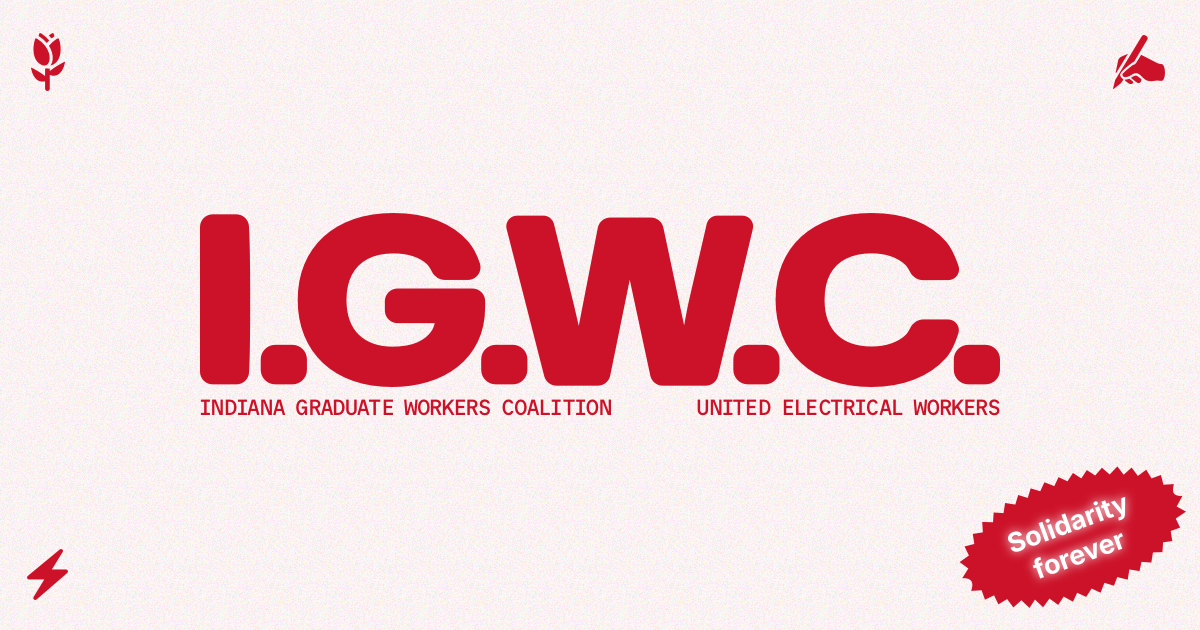
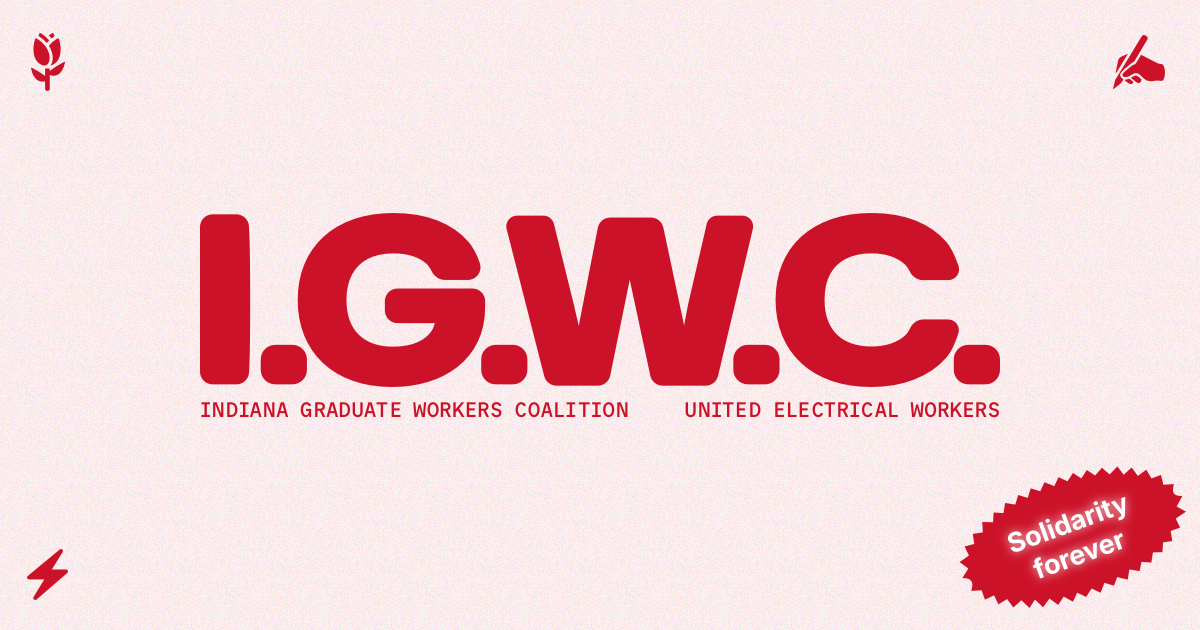
tone it down a bit i guess

Changed region(s): [[0.1542, 0.6333, 0.5242, 0.6635], [0.555, 0.6333, 0.8325, 0.6635]]

diff --git a/src/styles/global.css b/src/styles/global.css
@@ -42,8 +42,8 @@ font-feature-settings: "ss07", "ss08", "cv10";
 }
 :root{
 --igwc-red: #cc1229;
---igwc-pink: #fff7f7;
---pink-grain-composite: #f9f2f3;
+--igwc-pink: #fff0f1;
+--pink-grain-composite: #f9eded;
 --igwc-light-grey: #605c5c;
 --igwc-grey: #4c4a4a;
 }
@@ -75,7 +75,7 @@ width: 35%;
 }
 main{
 margin-top: 3rem;
-margin-left: calc(35% + 4rem);
+margin-left: calc(35% + 5rem);
   & h1,h2,h3{
     font-weight: 700;
     font-size: 100%;
@@ -86,7 +86,7 @@ margin-left: calc(35% + 4rem);
     border-bottom: solid 0.2rem;
   }
   h2{
-  margin: 1.5rem 0 0 0;
+		margin: 1.5rem 0 0 0;
   }
   & article{
     position: relative;
@@ -101,7 +101,6 @@ border-top: solid 0.2rem;
 font-family: "CommitMonoIGWC", monospace;
 font-size: 70%;
 line-height: 1.2;
-
   & p{
   margin-top: 1em;
   margin-bottom: 0;
@@ -117,9 +116,10 @@ text-shadow: rgba(255,255,255,0.6) 0px 0 10px;
 }
 img{
 max-width: 100%;
-border-radius: 0.5rem;
+border-radius: 0.75rem;
 width: 100%;
-height: auto;
+height: 60vh;
+object-fit: cover;
 }
 ul{
 padding-left: 1em;
@@ -179,7 +179,7 @@ nav {
   }
 }
 #banner p{
-background-color: #cc1229;
+background-color: var(--igwc-red);
 color: white;
 border-radius: 0.5rem;
 padding: 0.5rem;
@@ -234,7 +234,16 @@ position: absolute;
 bottom:-8rem;
 }
 .action{
+width: fit-content;
 margin: auto;
+background-color: var(--igwc-red); 
+color: white; 
+padding: 0.5rem 1rem; 
+font-weight: bold; 
+text-align: right; 
+border-radius: 0.75rem;
+filter: drop-shadow(2px 0px 1px var(--igwc-red));
+	& a:active{color:inherit;text-shadow: rgba(255,255,255,0.6) 0px 0 10px;}
 }
 .small{
 font-size: smaller;
@@ -258,8 +267,8 @@ line-height: 1.2;
 }
 
 #logo{
-fill: #cc1229;
-filter: drop-shadow(2px 0px 1px #cc1229);
+fill: var(--igwc-red);
+filter: drop-shadow(2px 0px 1px var(--igwc-red));
 }
 article:has(.embed){
 position: static;
@@ -305,6 +314,7 @@ background-color: var(--igwc-pink);
 	header, footer{
 	left: 1rem;
 	}
+	main{margin-left: calc(35% + 3rem)}
 	header{top:1rem}
 	footer{bottom:1rem}
 	.embed{

diff --git a/src/content/homepage.md b/src/content/homepage.md
@@ -1,8 +1,10 @@
 ---
 title: Homepage
-description: 
+description: Learn about the Indiana Graduate Workers Coalition (IGWC), a member-run labor union fighting for better pay, benefits, and working conditions for graduate workers at Indiana University, Bloomington. 
 ---
 ![<#caption#>](../media/2024-04-17-strike-march.jpeg)
+
+# Indiana Graduate Workers Coalition
 
 Indiana Graduate Workers Coalition (IGWC) is a member-run labor union representing over 1,700 graduate workers and students at Indiana University, Bloomington.
 
@@ -10,10 +12,10 @@ Since 2019, we've fought for ([and won](/victories)) significantly better pay, b
 
 We're able to win in hostile conditions because of our commitment to **member-driven collective action**, and that means we need you!
 
-<p class="sticker action"><a href="organize">Join the union!</a></p>
+<p class="action"><a href="organize">Join the union!</a></p>
 
 
-## What Are We Fighting For?
+# What Are We Fighting For?
 
 In the face of attacks on higher education, IU must ensure adequately-funded work is protected for graduate workers with a reasonable timeline to graduation without placing additional burden on department budgets:
 
@@ -21,10 +23,10 @@ In the face of attacks on higher education, IU must ensure adequately-funded wor
 - **Financial security for all departments, programs, and cultural centers**, especially those that are made even more vulnerable by the ongoing attacks against DEI initiatives.  
 - **An immediate raise** of 28% to $31k for minimum SAA stipends, to meet the standard set by the [recent raise given to President Pamela Whitten](https://www.idsnews.com/article/2025/02/pamela-whitten-reappointed-5-more-years-salary-raise), and a path toward universal 12-month contracts for SAAs with a living wage, which according to the MIT cost of living standard is $43k.
 
-<p class="sticker action"><a href="platform">See our full platform!</a></p>
+<p class="action"><a href="platform">See our full platform!</a></p>
 
-## Join our Mailing List!
+# Join our Mailing List!
 
 Want to stay in-the-loop with the IGWC at IU? Join our Mailing List! 
 
-<p class="sticker action"><a href="https://list.iu.edu/sympa/subscribe/igwc-ue-news-l">Join our Mailing List!</a></p>
+<p class="action"><a href="https://list.iu.edu/sympa/subscribe/igwc-ue-news-l">Join our Mailing List!</a></p>

diff --git a/src/content/pages/dues.md b/src/content/pages/dues.md
@@ -21,4 +21,4 @@ Not a Member but want to contibute? Donate to our Campaign/Strike fund!
 
 Indiana University graduate workers are fighting for a living wage and a seat at the bargaining table. Your donation helps us to better organize graduate workers, run more events, and prepare for future action should the administration refuse to recognize our union.
 
-<p class="sticker action"><a href="/organize">Donate!</a></p>
+<p class="action"><a href="/organize">Donate!</a></p>

diff --git a/src/content/pages/history.md b/src/content/pages/history.md
@@ -124,7 +124,7 @@ Over the next year, IGWC focused on building our membership and organizing capac
 
 We're not finished fighting for workers at IU. See what we're building now:
 
-<p class="sticker action"><a href="/organize">Organize!</a></p>
+<p class="action"><a href="/organize">Organize!</a></p>
 
 
 
